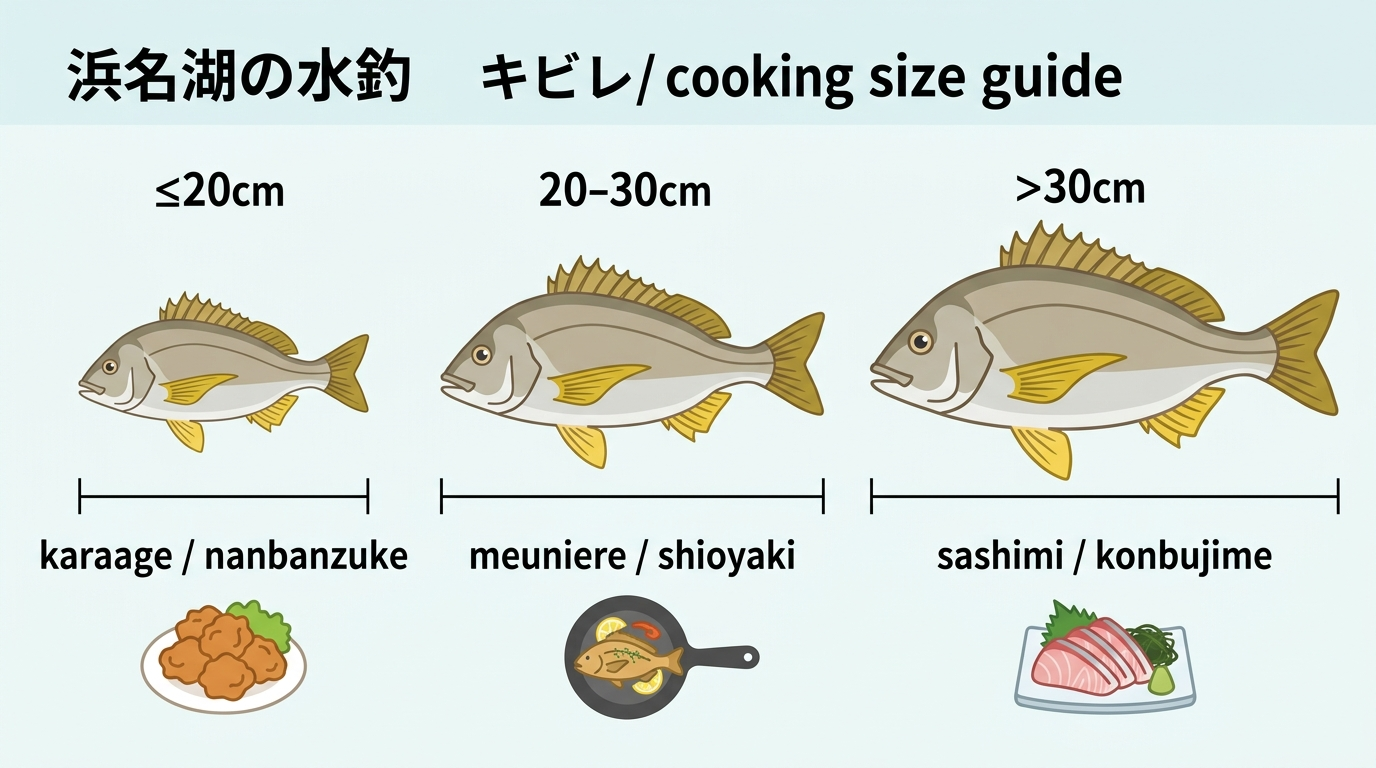
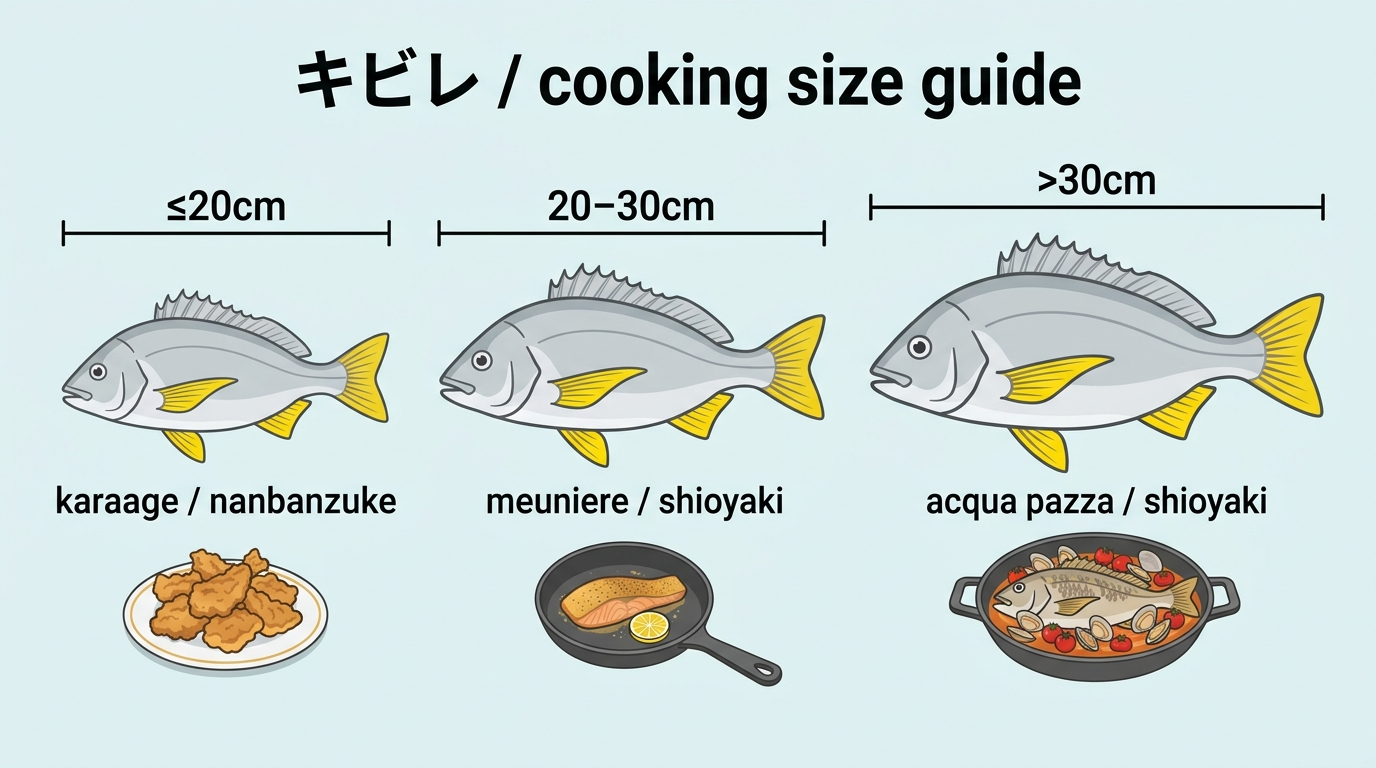
キビレ・クロダイのカードを見直し、FUYU-11 をセール日程に合わせて分ける
- kibire-cooking: キビレは刺身を勧めず加熱を案内（寄生虫のリスク、特に奥浜名湖）。
  タイトル・早見表・画像を合わせ、血抜きの節にキッチンバサミ、カードの前後を5段で書き直し
- kurodai-cooking: 刺身の節に刺身包丁のカードを追加
- kurodai: 13枚→8枚。専用ロッド・ハリスと針を選ぶ理由、エリア別のシンカーと竿の長さを追記
- FUYU-11: 11/19 の期間確認、セール対象の取得、11/21 以降の照合に分けた

diff --git a/.workspace/.task/winter-monetization-2026-11.md b/.workspace/.task/winter-monetization-2026-11.md
@@ -180,7 +180,11 @@
   - 2026-11-08 検収済み（CH-1。報告書 `.workspace/codex/reports/2026-11-08-CH-1.md`）。Codex は店の紹介を全部外していたが、CC が公式で確かめた2軒（海湖館: 12/19〜27 プレオープン・1/6 グランドオープン、舞阪マルマ幸福丸: 通年）を確認日つきの表で足した。宿カードは弁天島の楽天・じゃらん。タイトルは「冬の浜名湖釣り旅｜短時間のカレイ狙いと牡蠣小屋・温泉の1泊2日プラン」
 - [x] **FUYU-10（CC→Codex）** 未登録の4本（`karei-points`・`karei-tactics`・`mebaru-kasago-points`・`mebaru-kasago-tactics`）の重なりを点検し、残すものを直してから再依頼
   - 2026-11-08 検収済み（CH-1）。4本とも役割を絞ってリライト（止めた記事なし）。ポイントは釣り場の比較、攻略は条件を1つずつ変える手順。カバー4枚も作り直し。比較先に残る食い違い（11-month の「30cm超が当たり前」、メバルの産卵月、カサゴの号数・待ち時間、新居弁天の駐車料金 500円/400円）は FUYU-12 で扱う
-- [ ] **FUYU-11（CC）** 公式発表の後、`amazon-sale-tackle-strategy` の日付・防寒の節を更新。発表前に日程を断定しない
+- [ ] **FUYU-11（CC）** Amazon ブラックフライデーの日程とセール対象を、公式の発表を確かめてから記事に入れる。発表前に日程を断定しない
+  - 予定（2026-11-10 ユーザー情報）: 期間の発表は 11/19 の見込み、先行セールは 11/21 から。**11/21 の朝までに記事へ反映する**
+  - [ ] **FUYU-11a（11/19）** Amazon の公式告知で先行セール・本番の期間を確認し、`amazon-sale-tackle-strategy` と `winter-cold-protection-guide` の日付を更新。発表がなければ翌日に再確認
+  - [ ] **FUYU-11b（11/19〜20）** セール対象を取得する。登録済みのカード（`src/content/affiliates/winter/` の18件と、冬の記事に置いている釣具）の商品ページで、セール対象かを確かめて一覧にする（`.workspace/.task/` に保存）。対象になった商品を `amazon-sale-tackle-strategy` の防寒の節と防寒ガイドで案内する。価格・割引率は変わるので書かない（§3）
+  - [ ] **FUYU-11c（11/21 以降）** 先行セールが始まったら、対象の一覧と記事の案内が合っているかを確かめる。本番の初日にもう一度見る
 
 ### 今回の Codex 5本（2026-11-05 CC 選定）
 
@@ -199,6 +203,12 @@
 ### 月次分析から引き継ぐもの
 
 - [ ] `kibire-cooking` のカード（料理記事で目的が合っていない可能性）と `kurodai` の13枚の見直しは H-36 で扱う
+  - 2026-11-10 着手（CC）。`kibire-cooking` の2枚は仕掛けではなく料理道具（神経締めセット・ピチット）で、目的は合っていた。カードの前後を配置ルール §3-1 の5段（場面・原因・基準・差し出す・正直さ）で書き直した（未コミット）
+  - 2026-11-10 ユーザー判断を反映（未コミット）:
+    - `kibire-cooking`: キビレは刺身を勧めない（寄生虫のリスク、特に奥浜名湖）。刺身・昆布締めの節を加熱の案内に変え、タイトル・summary・早見表・画像 `size-guide.png`（作り直し）も合わせた。捌くのは万能包丁で足りると明記。血抜きの節にキッチンバサミのカード（包丁が苦手・けがを避けたい人向け）
+    - `kurodai-cooking`: 刺身の節に刺身包丁 `sekimagoroku-ginju-sashimi-210` を追加。キビレは加熱する旨を追記
+    - `kurodai`: 13枚→8枚。PE・竿・リール・ダンゴを外した。専用ロッドを選ぶ理由（シーバスロッドは穂先が硬く、口の小さいクロダイ・キビレのアタリを逃がしやすい）、ハリスと針にこだわる理由、地元の選び方（表は重め／流れに乗せる、中・奥は沈みすぎない重さか飛距離・止めやすさ。竿は5.4mから、7mは今切口の一部、使い回すなら6m未満）を本文に入れた
+    - `kurodai` のトップウォーターはフェイキードッグとポッピングダックを残し、ライズウォークを外した（ユーザー判断）。13枚→8枚
 
 ## 6. 判断待ち
 

diff --git a/.workspace/.task/task.md b/.workspace/.task/task.md
@@ -12,9 +12,11 @@
 - [x] 11/05: 防寒商品のリサーチとカード18件の登録（FUYU-3・FUYU-4、[winter-gear-research-2026-11.md](winter-gear-research-2026-11.md)）
 - [x] 11/05: 防寒ガイド兼ブラックフライデー記事（FUYU-5、指示書 `.workspace/codex/orders/2026-11-05-FUYU-5.md`）
 - [x] 11/05: 魚種×月の記事6本の統合（FUYU-8、指示書 `.workspace/codex/orders/2026-11-05-FUYU-8.md`）
-- [ ] 公開後: 新記事への内部リンク（FUYU-13）、数字の食い違いの整理（FUYU-12）
-- [ ] 11/15: 冬ハブ（FUYU-6）と転送の変更（FUYU-7）。体験メモ（U-3）
-- [ ] バッチ CH-1: 牡蠣小屋の旅記事（FUYU-9）、未登録4本の点検（FUYU-10）／11/30: セール記事の更新（FUYU-11）
+- [x] 公開後: 新記事への内部リンク（FUYU-13）、数字の食い違いの整理（FUYU-12、2026-11-10 完了）
+- [ ] 11/15: 冬ハブ（FUYU-6）と転送の変更（FUYU-7）。体験メモ（U-3、2026-11-10 反映済み）
+- [x] バッチ CH-1: 牡蠣小屋の旅記事（FUYU-9）、未登録4本の点検（FUYU-10）（2026-11-08 検収済み）
+- [ ] **11/19: Amazon ブラックフライデーの期間を公式で確認し、記事の日付を更新（FUYU-11a）→ セール対象の商品を取得して記事に反映（FUYU-11b）。先行セールが 11/21 から始まるので、それまでに終える**
+- [ ] 11/21〜: 先行セール開始後に対象と記事の案内を照合（FUYU-11c）
 - [ ] 判断待ち: 秋ハブ（下の B）を来年に回すか
 
 ## 🔴 新規: 秋KW改善（2026-10-30〜）
